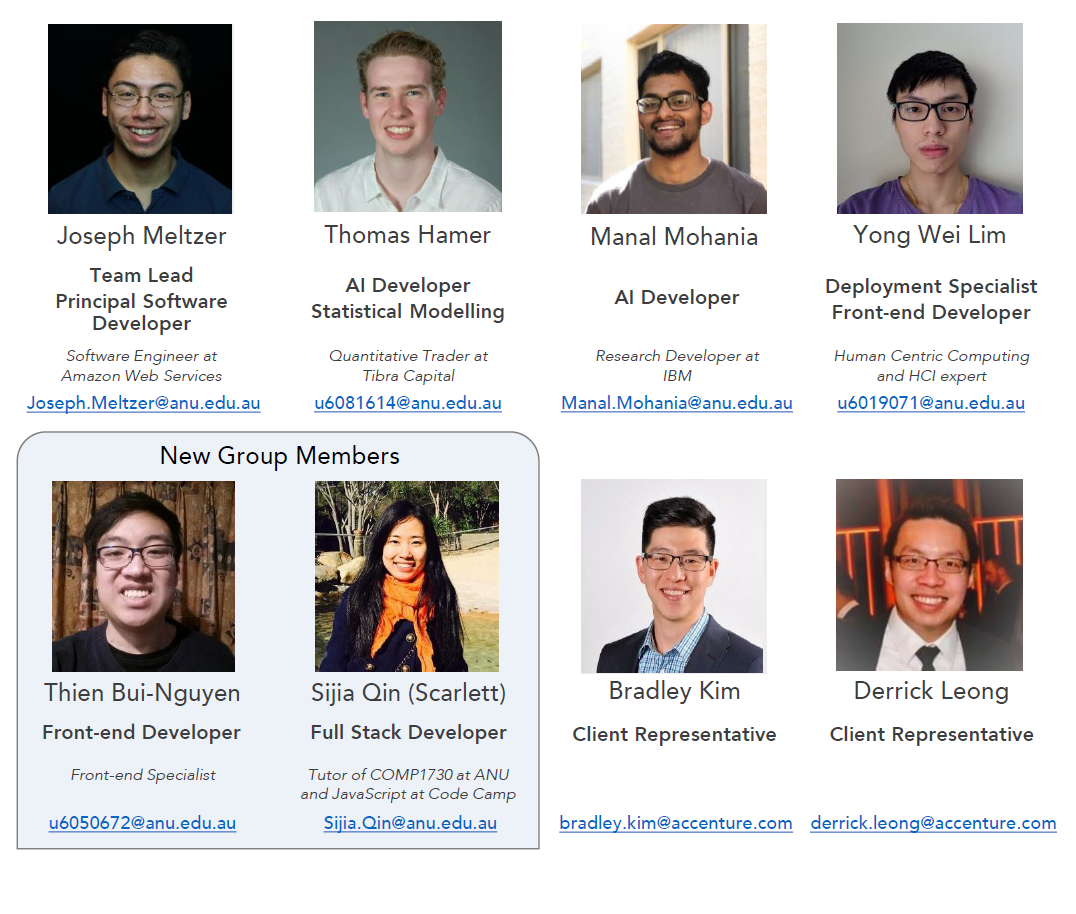
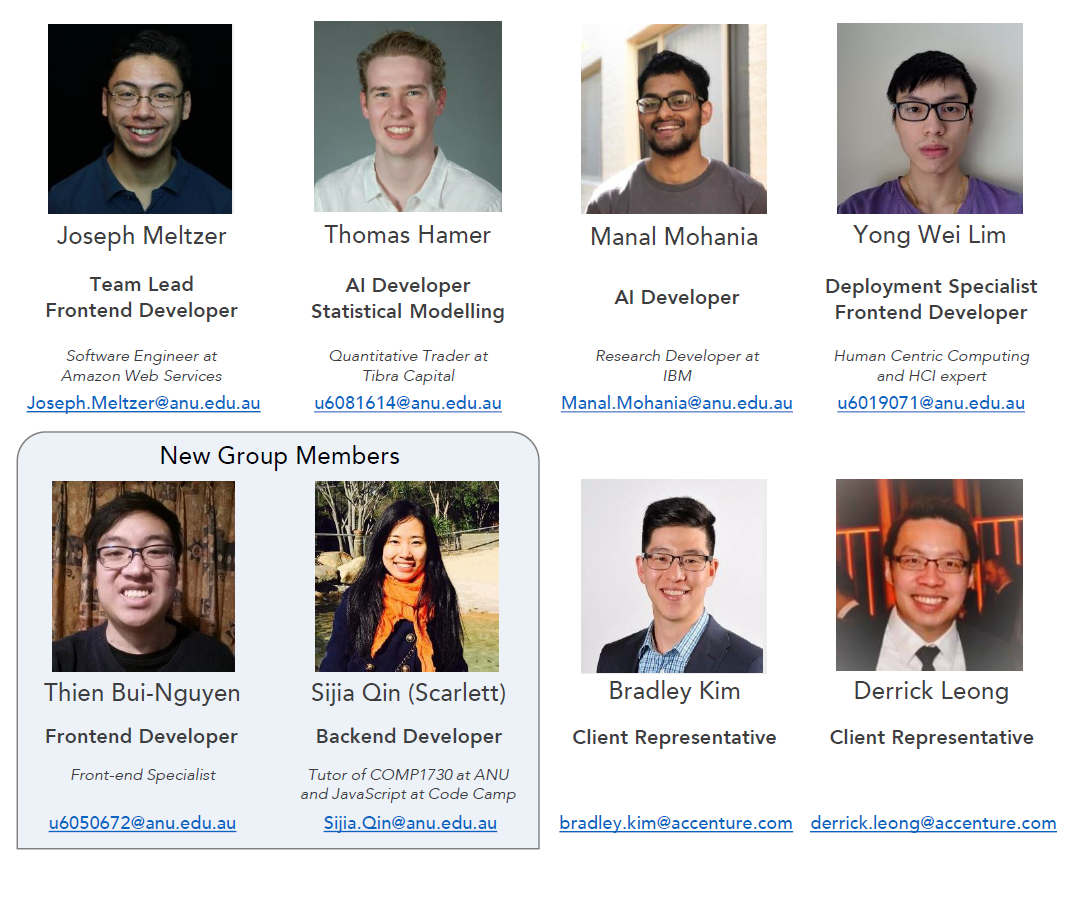
Updated Documentation Organisation
* Week 4 team meeting minutes moved to correct format.
* Week 3 items now in Sprint 1.
* Image/PDF version of team members chart is now the same as in the presentation
* Presentation slides link is bold.

Former-commit-id: 7d488c94e0188ddbba776387bc80d4169d52c7c4

diff --git a/Documentation/Semester_2/Sprint_1/team-week-4-minutes.md b/Documentation/Semester_2/Sprint_1/team-week-4-minutes.md
@@ -1,0 +1,35 @@
+## Full Team Meeting - Week 3
+
+All team members present. 
+
+
+Stand-up:
+
+* Joseph: Front-end refactoring. 70% done
+* Manal: Backend refactor and communications regarding anonymised student data. 
+* Tom: Degree model, scraping and sorting data from P&Cs. Scraper for all year levels. Possibility of having to do some manually. 
+* Thien: Deployment decision documentation. Backend refactor (relating to ElasticSearch clients). ElasticSearch is currently hosted already. 
+* Yong Wei: Decided on Google Cloud, working on deployment of the web app. Also working with Docker. Found 2 participants for testing. 
+* Scarlett: Built a prototype for login and register form. Users can register and login to the system using username and password.
+
+---
+
+* Ethics Approval? Needs to be decided
+* Went through feeedback from Audit
+	* Added stuff to the feedback register 
+* Discussed the agenda for the tutorial on Wed
+	* Discussing the feedback we received from the audit
+	* Other stuff that should have been done during the first presentation such as introducing team members.
+	* Discussing how we're going to go about project management. How big should Trello cards be etc.
+
+---
+
+Action items:
+
+* Manal: Look into Elasticsearch instantiaition in the search module. Ping Charles to contact the relevant organisations for getting student data. Create a backlog
+* Yong Wei: Finalise deployment of webapp by Friday. Look into custom domain names.
+* Tom: Look into supporting multiple plans for the same user. Change all the `eval` calls in the code.
+* Joseph: Continue working on the frontend refactoring. This should be done by Friday. Create a mock API on Apiary for the degree plans. Integrate Scarlett's code to the front-end.  
+* Thien: Work with Lim on deployment. Look into docker. Maintain a feedback register. 
+* Scarlett: Finish work with the user registration page.
+* Other action items available in the feedback register

diff --git a/Documentation/Semester_2/overview.md b/Documentation/Semester_2/overview.md
@@ -2,20 +2,25 @@
 
 ## Sprint 1: Weeks 3 - 5
 
+#### Week 4
+
+* [Meeting Minutes: Full Team](Sprint_1/team-week-4-minutes.md)
+
 #### Week 3
+
 * [Deployment Documentation](Sprint_1/deployment-decisions.md)
+* [Meeting Minutes: Full Team](Sprint_1/team-week-3-minutes.md)
+* [Meeting Minutes: Accenture](Sprint_1/accenture-week-3-minutes.md)
 
 ## Sprint 0: Weeks 1 - 2
 
 #### Audit 1 Feedback
-* [A1 Feedback register](https://docs.google.com/spreadsheets/d/1F2NP-vgWbB0HpWlc_H7L85UJ_gTzK-F6HnkLpG5QA14/edit?usp=sharing)
+* [A1 Feedback Register](https://docs.google.com/spreadsheets/d/1F2NP-vgWbB0HpWlc_H7L85UJ_gTzK-F6HnkLpG5QA14/edit?usp=sharing)
 
 #### Audit 1
-* [Presentation Slides](https://docs.google.com/presentation/d/1Ae8ik7Atvc_3EnimkYWZ8D8zZCJkSxFT_T0EhWcpCA0/edit?usp=sharing)
+* **[Presentation Slides](https://docs.google.com/presentation/d/1Ae8ik7Atvc_3EnimkYWZ8D8zZCJkSxFT_T0EhWcpCA0/edit?usp=sharing)**
 * [Team Members](Sprint_0/PDF/Team_Members.pdf)
 * [Project Schedule](Sprint_0/PDF/Schedule.pdf)
-* [Meeting Minutes: Full Team](Sprint_0/team-week-3-minutes.md)
-* [Meeting Minutes: Accenture](Sprint_0/accenture-week-3-minutes.md)
 #### Week 2
 * [Meeting Minutes: Full Team](Sprint_0/team-week-2-minutes.md)
 * [Meeting Minutes: Accenture](Sprint_0/accenture-week-2-minutes.md)
